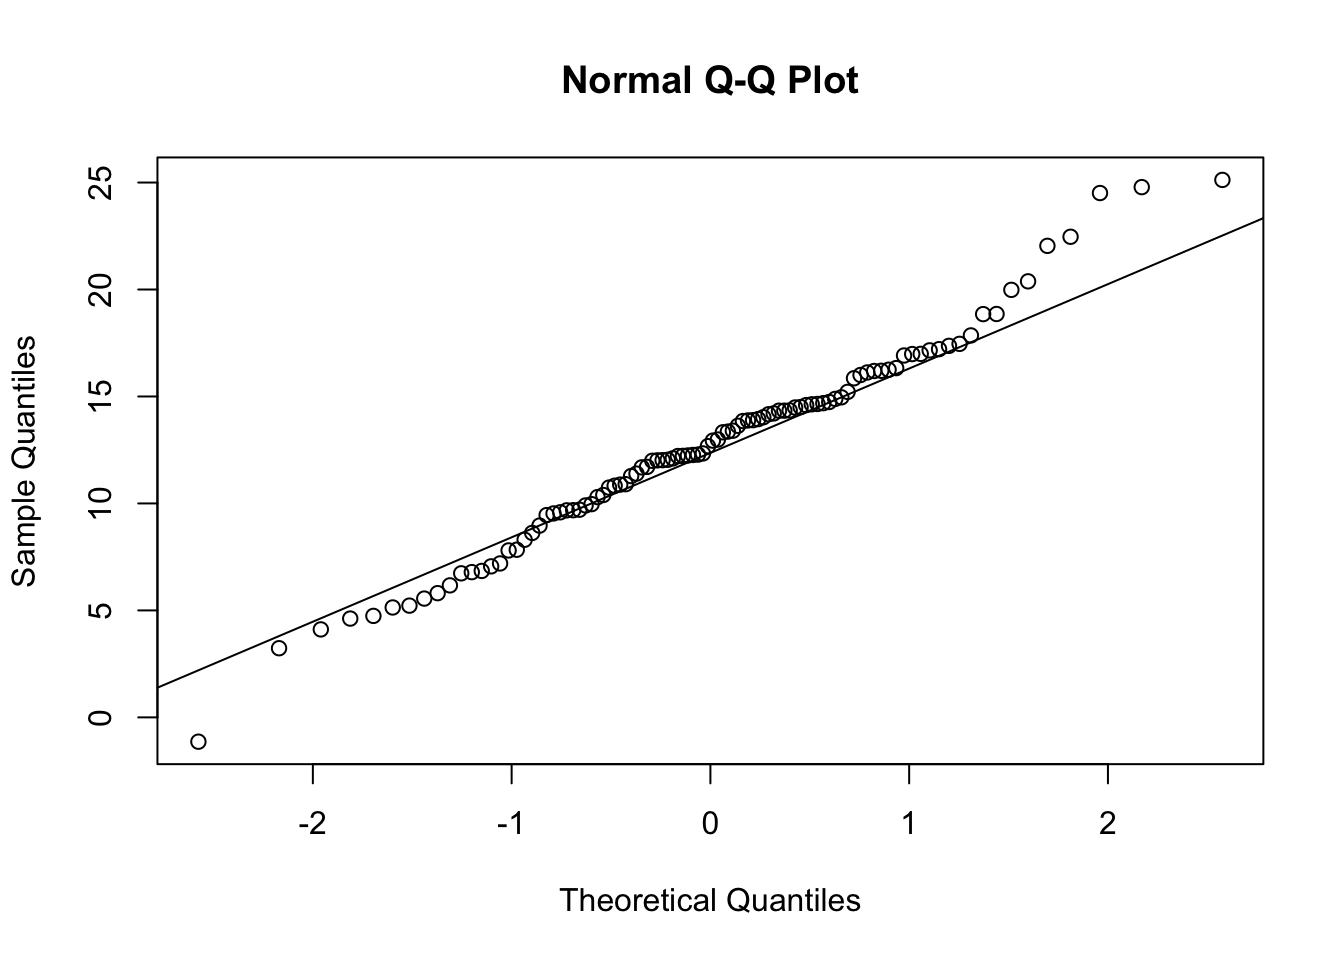
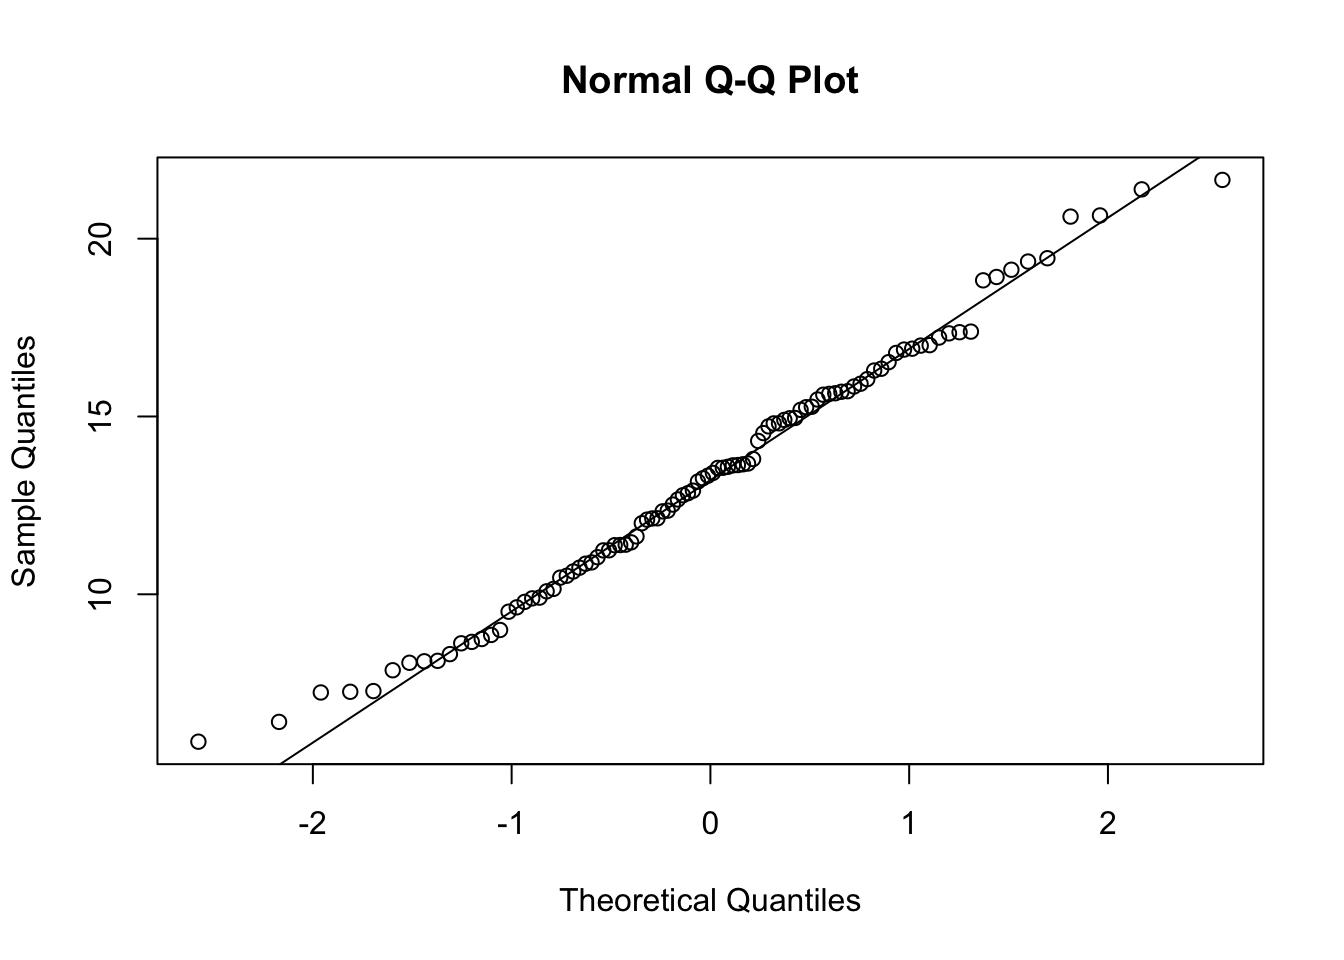
iron out lab 2

diff --git a/RLabs/R_tutorial_Tabular_data.html b/RLabs/R_tutorial_Tabular_data.html
@@ -677,6 +677,18 @@ and tongue length.</p>
 </tbody>
 </table>
 <p><br></p>
+<div id="recording-metadata" class="section level3">
+<h3>Recording metadata</h3>
+<p>Data have no value unless they can be correctly interpreted. It is
+important to record enough information that each variable in your data
+set can be well-understood by another reader (including your future
+self).</p>
+<p>Key information includes the meaning of each variable name, including
+units, along with when, where and who collected the data. The objective
+here is to provide a short document that another person could read to
+unambiguously interpret your data file.</p>
+<p><br></p>
+</div>
 </div>
 <div id="creating-a-data-file" class="section level2">
 <h2>Creating a data file</h2>
@@ -760,15 +772,12 @@ width="300" /></p>
 (without quotation marks). Make sure the box for “Install dependencies”
 near the bottom is clicked, and then click the “Install” button at
 bottom right.</p>
-</div>
-</div>
-<div id="replaced-image" class="section level1">
-<h1><span style="color:#ff5e00;">REPLACED IMAGE</span></h1>
 <p><img src="formula_summaries/Install_tidyverse.png" width="350" /></p>
 <p>Installing an R package only needs to be done once on a given
 computer. If installed correctly, the package wil permanently available
 from that point forward (though it will need to be loaded).</p>
 <p><br></p>
+</div>
 <div id="loading-a-package" class="section level2">
 <h2>Loading a package</h2>
 <p>Once a package is installed, it needs to be loaded into R during a
@@ -782,16 +791,6 @@ tidyverse. Before using the functions in these packages, we need to load
 tidyverse. We do this with the <code>library()</code> function. In the
 console, enter this:</p>
 <div class="sourceCode" id="cb1"><pre class="sourceCode r"><code class="sourceCode r"><span id="cb1-1"><a href="#cb1-1" tabindex="-1"></a><span class="fu">library</span>(tidyverse)</span></code></pre></div>
-<pre><code>## ── Attaching core tidyverse packages ──────────────────────── tidyverse 2.0.0 ──
-## ✔ dplyr     1.1.4     ✔ readr     2.1.5
-## ✔ forcats   1.0.0     ✔ stringr   1.5.1
-## ✔ ggplot2   4.0.0     ✔ tibble    3.3.0
-## ✔ lubridate 1.9.4     ✔ tidyr     1.3.1
-## ✔ purrr     1.0.4     
-## ── Conflicts ────────────────────────────────────────── tidyverse_conflicts() ──
-## ✖ dplyr::filter() masks stats::filter()
-## ✖ dplyr::lag()    masks stats::lag()
-## ℹ Use the conflicted package (&lt;http://conflicted.r-lib.org/&gt;) to force all conflicts to become errors</code></pre>
 <p>If the <code>tidyverse</code> was is installed on your computer
 correctly, the computer will show a brief status message and then will
 be ready to go. If the package is not installed, it will give you an
@@ -840,7 +839,7 @@ survived the accident or not.</p>
 <p>To import a CSV file into R, use the <code>read.csv()</code> function
 as in the following command. (This assumes that you have set the working
 directory to <code>ABDLabs</code>, as we described above.)</p>
-<div class="sourceCode" id="cb3"><pre class="sourceCode r"><code class="sourceCode r"><span id="cb3-1"><a href="#cb3-1" tabindex="-1"></a>titanicData <span class="ot">&lt;-</span> <span class="fu">read.csv</span>(<span class="st">&quot;DataForLabs/titanic.csv&quot;</span>, <span class="at">stringsAsFactors =</span> <span class="cn">TRUE</span>)</span></code></pre></div>
+<div class="sourceCode" id="cb2"><pre class="sourceCode r"><code class="sourceCode r"><span id="cb2-1"><a href="#cb2-1" tabindex="-1"></a>titanicData <span class="ot">&lt;-</span> <span class="fu">read.csv</span>(<span class="st">&quot;DataForLabs/titanic.csv&quot;</span>, <span class="at">stringsAsFactors =</span> <span class="cn">TRUE</span>)</span></code></pre></div>
 <p>This looks for the file called <code>titanic.csv</code> in the folder
 called <code>DataForLabs.</code> Here we have given the name
 <code>titanicData</code> to the object in R that contains all this
@@ -852,44 +851,6 @@ repeated instances of the same value of a categorical variable.</p>
 <p>R has other functions that can read other data formats besides csv
 files, but the function <code>read.csv()</code> requires that the file
 be a csv file.</p>
-<p>To see if the data were imported appropriately and/or get a sense of
-the characteristics of the data, the <code>summary()</code> and
-<code>View()</code> commands can be useful.</p>
-</div>
-<div id="summary" class="section level3">
-<h3><code>summary()</code></h3>
-<p>This function will list all the variables and some summary statistics
-for each variable.</p>
-<div class="sourceCode" id="cb4"><pre class="sourceCode r"><code class="sourceCode r"><span id="cb4-1"><a href="#cb4-1" tabindex="-1"></a><span class="fu">summary</span>(titanicData)</span></code></pre></div>
-<pre><code>##  passenger_class                        name           age         
-##  1st:322         Carlsson,MrFransOlof     :   2   Min.   : 0.1667  
-##  2nd:280         Connolly,MissKate        :   2   1st Qu.:21.0000  
-##  3rd:711         Kelly,MrJames            :   2   Median :30.0000  
-##                  Abbing,MrAnthony         :   1   Mean   :31.1942  
-##                  Abbott,MasterEugeneJoseph:   1   3rd Qu.:41.0000  
-##                  Abbott,MrRossmoreEdward  :   1   Max.   :71.0000  
-##                  (Other)                  :1304   NA&#39;s   :680      
-##         embarked            home_destination     sex      survive  
-##             :493                    :558     female:463   no :864  
-##  Cherbourg  :202   NewYork,NY       : 65     male  :850   yes:449  
-##  Queenstown : 45   London           : 14                           
-##  Southampton:573   Montreal,PQ      : 10                           
-##                    Cornwall/Akron,OH:  9                           
-##                    Paris,France     :  9                           
-##                    (Other)          :648</code></pre>
-</div>
-<div id="view" class="section level3">
-<h3><code>View()</code></h3>
-<p>The <code>View()</code> function is a nice way to see the data in a
-spreadsheet-like format. To see the data in <code>titanicData</code>
-with <code>View()</code>, run the following command:</p>
-<div class="sourceCode" id="cb6"><pre class="sourceCode r"><code class="sourceCode r"><span id="cb6-1"><a href="#cb6-1" tabindex="-1"></a><span class="fu">View</span>(titanicData)</span></code></pre></div>
-<p><img src="formula_summaries/VIew_function_titanicData.png"
-width="600" /></p>
-<p>Again, note that the <code>titanicData</code> object has 7 columns
-and 1313 rows. The horizontal and vertical scroll bars will allow you to
-see more of the data than what may initially appear in the window.</p>
-<p><br></p>
 </div>
 <div id="finding-files-in-other-locations" class="section level3">
 <h3>Finding files in other locations</h3>
@@ -909,7 +870,48 @@ tells the computer where to look for the file.</p>
 <code>read.csv()</code> to look for the file outside your current
 working directory. Reading a file from any location can be done with
 <code>read.csv()</code> like this:</p>
-<div class="sourceCode" id="cb7"><pre class="sourceCode r"><code class="sourceCode r"><span id="cb7-1"><a href="#cb7-1" tabindex="-1"></a>titanicData <span class="ot">&lt;-</span> <span class="fu">read.csv</span>(<span class="st">&quot;/Users/whitlock/Desktop/ABDLabs/DataForLabs/titanic.csv&quot;</span>, <span class="at">stringsAsFactors =</span> <span class="cn">TRUE</span>)</span></code></pre></div>
+<div class="sourceCode" id="cb3"><pre class="sourceCode r"><code class="sourceCode r"><span id="cb3-1"><a href="#cb3-1" tabindex="-1"></a>titanicData <span class="ot">&lt;-</span> <span class="fu">read.csv</span>(<span class="st">&quot;/Users/whitlock/Desktop/ABDLabs/DataForLabs/titanic.csv&quot;</span>, <span class="at">stringsAsFactors =</span> <span class="cn">TRUE</span>)</span></code></pre></div>
+<p><br></p>
+</div>
+</div>
+<div id="a-first-look-at-data" class="section level2">
+<h2>A first look at data</h2>
+<p>To see if the data were imported appropriately and/or get a sense of
+the characteristics of the data, the <code>summary()</code> and
+<code>View()</code> commands can be useful.</p>
+<div id="summary" class="section level3">
+<h3><code>summary()</code></h3>
+<p>This function will list all the variables and some summary statistics
+for each variable.</p>
+<div class="sourceCode" id="cb4"><pre class="sourceCode r"><code class="sourceCode r"><span id="cb4-1"><a href="#cb4-1" tabindex="-1"></a><span class="fu">summary</span>(titanicData)</span></code></pre></div>
+<pre><code>##  passenger_class                        name           age                 embarked  
+##  1st:322         Carlsson,MrFransOlof     :   2   Min.   : 0.1667              :493  
+##  2nd:280         Connolly,MissKate        :   2   1st Qu.:21.0000   Cherbourg  :202  
+##  3rd:711         Kelly,MrJames            :   2   Median :30.0000   Queenstown : 45  
+##                  Abbing,MrAnthony         :   1   Mean   :31.1942   Southampton:573  
+##                  Abbott,MasterEugeneJoseph:   1   3rd Qu.:41.0000                    
+##                  Abbott,MrRossmoreEdward  :   1   Max.   :71.0000                    
+##                  (Other)                  :1304   NA&#39;s   :680                        
+##           home_destination     sex      survive  
+##                   :558     female:463   no :864  
+##  NewYork,NY       : 65     male  :850   yes:449  
+##  London           : 14                           
+##  Montreal,PQ      : 10                           
+##  Cornwall/Akron,OH:  9                           
+##  Paris,France     :  9                           
+##  (Other)          :648</code></pre>
+</div>
+<div id="view" class="section level3">
+<h3><code>View()</code></h3>
+<p>The <code>View()</code> function is a nice way to see the data in a
+spreadsheet-like format. To see the data in <code>titanicData</code>
+with <code>View()</code>, run the following command:</p>
+<div class="sourceCode" id="cb6"><pre class="sourceCode r"><code class="sourceCode r"><span id="cb6-1"><a href="#cb6-1" tabindex="-1"></a><span class="fu">View</span>(titanicData)</span></code></pre></div>
+<p><img src="formula_summaries/VIew_function_titanicData.png"
+width="600" /></p>
+<p>Again, note that the <code>titanicData</code> object has 7 columns
+and 1313 rows. The horizontal and vertical scroll bars will allow you to
+see more of the data than what may initially appear in the window.</p>
 <p><br></p>
 </div>
 </div>
@@ -941,7 +943,7 @@ by itself. We write the name of the data set, followed by a
 <code>$</code>, and then the name of the variable.</p>
 <p>For example, to show a list of the age of all the passengers on the
 Titanic, use</p>
-<div class="sourceCode" id="cb8"><pre class="sourceCode r"><code class="sourceCode r"><span id="cb8-1"><a href="#cb8-1" tabindex="-1"></a>titanicData<span class="sc">$</span>age</span></code></pre></div>
+<div class="sourceCode" id="cb7"><pre class="sourceCode r"><code class="sourceCode r"><span id="cb7-1"><a href="#cb7-1" tabindex="-1"></a>titanicData<span class="sc">$</span>age</span></code></pre></div>
 <p>This will show a vector that has all the values for this variable
 age, one for each individual in the data set.</p>
 <p><br></p>
@@ -954,15 +956,10 @@ easiest way to do this is to simply assign a new vector to a new column
 name, using the <code>$</code>.</p>
 <p>For example, to add the log of age as a column in the
 <code>titanicData</code> data frame, we can write</p>
-<div class="sourceCode" id="cb9"><pre class="sourceCode r"><code class="sourceCode r"><span id="cb9-1"><a href="#cb9-1" tabindex="-1"></a>titanicData<span class="sc">$</span>log_age <span class="ot">&lt;-</span> <span class="fu">log</span>(titanicData<span class="sc">$</span>age)</span></code></pre></div>
-</div>
-</div>
-<div id="add-mutate-and-factor-here-too" class="section level1">
-<h1><span style="color:#ff5e00;">Add mutate() and factor() here
-too?</span></h1>
+<div class="sourceCode" id="cb8"><pre class="sourceCode r"><code class="sourceCode r"><span id="cb8-1"><a href="#cb8-1" tabindex="-1"></a>titanicData<span class="sc">$</span>log_age <span class="ot">&lt;-</span> <span class="fu">log</span>(titanicData<span class="sc">$</span>age)</span></code></pre></div>
 <p>You can run the command <code>head(titanicData)</code> to see that
 <code>log_age</code> is now a column in <code>titanicData</code>.</p>
-<div class="sourceCode" id="cb10"><pre class="sourceCode r"><code class="sourceCode r"><span id="cb10-1"><a href="#cb10-1" tabindex="-1"></a><span class="fu">head</span>(titanicData)</span></code></pre></div>
+<div class="sourceCode" id="cb9"><pre class="sourceCode r"><code class="sourceCode r"><span id="cb9-1"><a href="#cb9-1" tabindex="-1"></a><span class="fu">head</span>(titanicData)</span></code></pre></div>
 <pre><code>##   passenger_class                                      name     age    embarked
 ## 1             1st                 Allen,MissElisabethWalton 29.0000 Southampton
 ## 2             1st                  Allison,MissHelenLoraine  2.0000 Southampton
@@ -982,8 +979,9 @@ frame or tibble, which is a handy way to check that you understand the
 structure of the data and/or that you have added the new column
 correctly.</p>
 <p><br></p>
-<div id="choosing-subsets-of-data" class="section level2">
-<h2>Choosing subsets of data</h2>
+</div>
+<div id="filter" class="section level2">
+<h2><code>filter()</code></h2>
 <p>Sometimes we want to do an analysis only on some of the data that fit
 certain criteria. For example, we might want to analyze the data from
 the Titanic using only the information from females.</p>
@@ -998,7 +996,7 @@ functions in the tidyverse packages, including
 and an individual is female if that variable has value
 <code>female</code>. We can create a new data frame that includes only
 the data from females with the following command:</p>
-<div class="sourceCode" id="cb12"><pre class="sourceCode r"><code class="sourceCode r"><span id="cb12-1"><a href="#cb12-1" tabindex="-1"></a>titanicDataFemalesOnly <span class="ot">&lt;-</span> <span class="fu">filter</span>(titanicData, sex <span class="sc">==</span> <span class="st">&quot;female&quot;</span>)</span></code></pre></div>
+<div class="sourceCode" id="cb11"><pre class="sourceCode r"><code class="sourceCode r"><span id="cb11-1"><a href="#cb11-1" tabindex="-1"></a>titanicDataFemalesOnly <span class="ot">&lt;-</span> <span class="fu">filter</span>(titanicData, sex <span class="sc">==</span> <span class="st">&quot;female&quot;</span>)</span></code></pre></div>
 <p>This new data frame will include all the same columns as the original
 <code>titanicData</code>, but it will only include the rows for which
 the sex was <code>female</code>.</p>
@@ -1020,9 +1018,12 @@ double equal sign <code>==</code>.</p>
 <hr />
 <p><br></p>
 </div>
-<div id="questions" class="section level1">
-<h1>Questions</h1>
-<p><br> 1. In Lab 1, Question 7, you and your fellow students may have
+<div id="activities-questions" class="section level1">
+<h1>Activities &amp; Questions</h1>
+<p><br> 1. Install the <code>tidyverse</code> package on your system if
+you haven’t already. After it has installed, use
+<code>library(tidyverse)</code> to load it into your R environment.</p>
+<p><br> 2. In Lab 1, Question 7, you and your fellow students may have
 recorded requested information about yourselves. Your TA will now
 provide you with data sheets for all students in your section who took
 measurements (all data are anonymous). Use the data sheets to create a
@@ -1033,25 +1034,29 @@ person who may encounter the file. Save the data file that you make in
 the <code>DataForLabs</code> folder on your computer with the file name
 <code>CollectedDataFromLab1.csv</code>.</p>
 <ol style="list-style-type: lower-alpha">
-<li><p>Import this data file into R using <code>read_csv()</code>, and
+<li><p>Prepare a text file which describes each of the variables in the
+data file. Remember to list the meaning of each variable name, including
+units. The objective here is to provide a short document that another
+person could read to unambiguously interpret your data file.</p></li>
+<li><p>Import this data file into R using <code>read.csv()</code>, and
 give the resulting data frame a name that makes sense to you.</p></li>
 <li><p>Use the <code>View()</code> function to check that you have read
 the data correctly.</p></li>
-<li><p><span style="color:#ff5e00;">Make a quick plot of VARIABLE
-against VARIABLE USING plot(X,Y)</span></p></li>
+<li><p>Use the <code>summary()</code> function to determine the
+proportion of people in your tutorial section who are
+right-handed.</p></li>
 </ol>
-<p><br> 2. The data file called <code>countries.csv</code> in the
+<p><br> 3. The data file called <code>countries.csv</code> in the
 <code>DataForLabs</code> folder contains information about all the
 countries on Earth. Each row is a country, and each column contains a
 variable.</p>
 <ol style="list-style-type: lower-alpha">
-<li><p>Use <code>read_csv()</code> to read the data from this file into
+<li><p>Use <code>read.csv()</code> to read the data from this file into
 a data frame called countries.</p></li>
 <li><p>Use <code>summary()</code> to get a quick description of this
 data set. What are the first three variables?</p></li>
-<li><p><span style="color:#ff5e00;">Using the output of
-<code>summary()</code>, how many countries are from Africa in this data
-set?</span> May not work without factor</p></li>
+<li><p>Using the output of <code>summary()</code>, how many countries
+are from Africa in this data set?</p></li>
 <li><p>What kinds of variables (i.e., categorical or numerical) are
 <code>continents</code>,
 <code>cell_phone_subscriptions_per_100_people_2012</code>,
@@ -1069,11 +1074,11 @@ ignore the missing data, add an option to the <code>mean()</code>
 command that says <code>na.rm=TRUE</code>. We’ll learn more about this
 later.)</p></li>
 </ol>
-<p><br> 3. Using the <code>countries</code> data again, create a new
-data frame called <code>AfricaData</code>, that only includes data for
-countries in Africa. What is the sum of the
-<code>total_population_in_thousands_2015</code> for this new data
-frame?</p>
+<p><br> 4. Using the <code>countries</code> data again, create a new
+data frame called <code>AfricaData</code> via the <code>filter()</code>
+function, that only includes data for countries in Africa. What is the
+sum of the <code>total_population_in_thousands_2015</code> for this new
+data frame?</p>
 </div>
 
 

diff --git a/RLabs/R_tutorial_Normal_and_sample_means.html b/RLabs/R_tutorial_Normal_and_sample_means.html
@@ -684,9 +684,8 @@ distribution</p>
 numbers drawn from a normal distribution with mean 13 and standard
 deviation 4:</p>
 <div class="sourceCode" id="cb6"><pre class="sourceCode r"><code class="sourceCode r"><span id="cb6-1"><a href="#cb6-1" tabindex="-1"></a><span class="fu">rnorm</span>(<span class="at">n =</span> <span class="dv">20</span>, <span class="at">mean =</span> <span class="dv">13</span>, <span class="at">sd =</span> <span class="dv">4</span>)</span></code></pre></div>
-<pre><code>##  [1] 12.320837 14.950817 17.348574 13.709884  4.145830  9.089617 10.771623  7.015441  7.450784
-## [10] 11.399460 14.026689 18.387790  7.959218 12.312472 18.483434  9.918883 15.024553 19.288058
-## [19] 13.525680 22.456705</code></pre>
+<pre><code>##  [1] 17.79728 19.84355 12.36191 19.19821 20.88968 15.08544 13.81633 17.83883 16.26489 16.25355
+## [11] 15.28412 18.23761 15.25010 19.40747 11.96828 10.89408 11.60176 13.01606 10.62093 12.35749</code></pre>
 <p>Let’s look at a QQ plot generated from 100 numbers randomly drawn
 from a normal distribution:</p>
 <div class="sourceCode" id="cb8"><pre class="sourceCode r"><code class="sourceCode r"><span id="cb8-1"><a href="#cb8-1" tabindex="-1"></a>normal_vector <span class="ot">&lt;-</span> <span class="fu">rnorm</span>(<span class="at">n =</span> <span class="dv">100</span>, <span class="at">mean =</span> <span class="dv">13</span>, <span class="at">sd =</span> <span class="dv">4</span>)</span>

diff --git a/RLabs/R_tutorial_Sampling.html b/RLabs/R_tutorial_Sampling.html
@@ -674,7 +674,7 @@ randomly chooses integers from a given range. To randomly sample 5
 individuals from 25 possibilities, we can use:</li>
 </ol>
 <div class="sourceCode" id="cb1"><pre class="sourceCode r"><code class="sourceCode r"><span id="cb1-1"><a href="#cb1-1" tabindex="-1"></a><span class="fu">sample.int</span>(<span class="at">n =</span> <span class="dv">25</span>, <span class="at">size =</span> <span class="dv">5</span>)</span></code></pre></div>
-<pre><code>## [1] 12 14 16  8 17</code></pre>
+<pre><code>## [1]  3 16 22 23 12</code></pre>
 <p>This tells R to give us a set of 5 numbers randomly chosen from the
 integers 1 to 25. (When you run this line you will almost certainly get
 a different output. It is randomly choosing numbers, so we expect

diff --git a/RLabs/ws-rlabs.css b/RLabs/ws-rlabs.css
@@ -71,7 +71,7 @@ a:focus {
 /* Make main text feel more like the original Yeti site */
 body {
   font-family: "Open Sans", "Helvetica Neue", Helvetica, Arial, sans-serif;
-  font-size: 17px;
+  font-size: 16px;
   line-height: 1.45;
   color: #333333;
 }